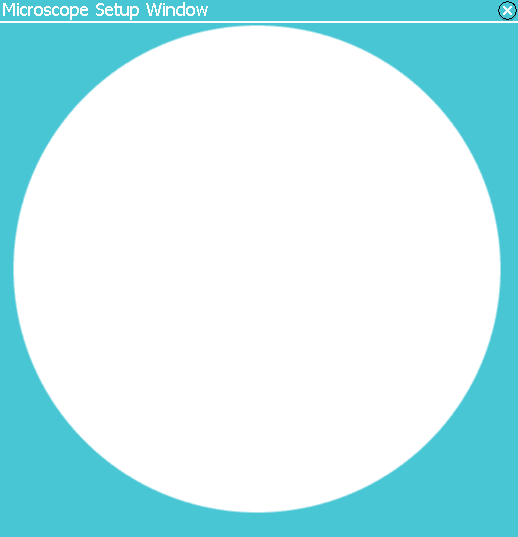
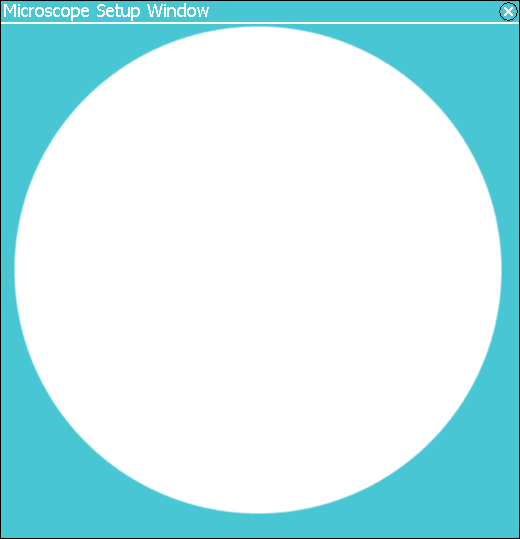
added canvas to main screen

diff --git a/public/css/floatingitems.css b/public/css/floatingitems.css
@@ -54,7 +54,7 @@
 
 #openboximage{
   position: absolute;
-  z-index: -1; 
+  z-index: -1;  
   top: 2.5vh;
   left: 0.3vw;
   max-width: 28.2vw;
@@ -65,10 +65,14 @@
 
 #basesetup{
   position: absolute;
+  z-index: 0;
   top: 11vh;
   left: 28vw;
-  width: 32vw;
-  height: 54vh;
+  max-width: 520px;
+  max-height: 539px;
+  overflow: hidden;
+  background: black;
+  
 }
 
 #basesetupbox{
@@ -81,10 +85,11 @@
 
 #setupboxcanvas{
   position: absolute;
-  top: 0;
-  left: 0;
+  top: -7vh;
+  left: -5vw;
   width: 100%;
   height: 100%;
+  overflow: hidden;
 }
 
 #setupcrosshair{

diff --git a/index.html b/index.html
@@ -76,7 +76,7 @@
       </map>
     </div>
     <div id='basesetup' class='hidden'>
-      <img src='./public/img/basesetupwindow.png' usemap='#setupbox' id='basesetupbox' width='518' height='537'/>
+      <img src='./public/img/basesetupwindow.png' usemap='#setupbox' id='basesetupbox' width='520' height='539'/>
       <img src='./public/img/screen.png' id='setupcrosshair' width='1071' height='1071'/>
       <canvas id='setupboxcanvas' width='518' height='537' >
       </canvas>
